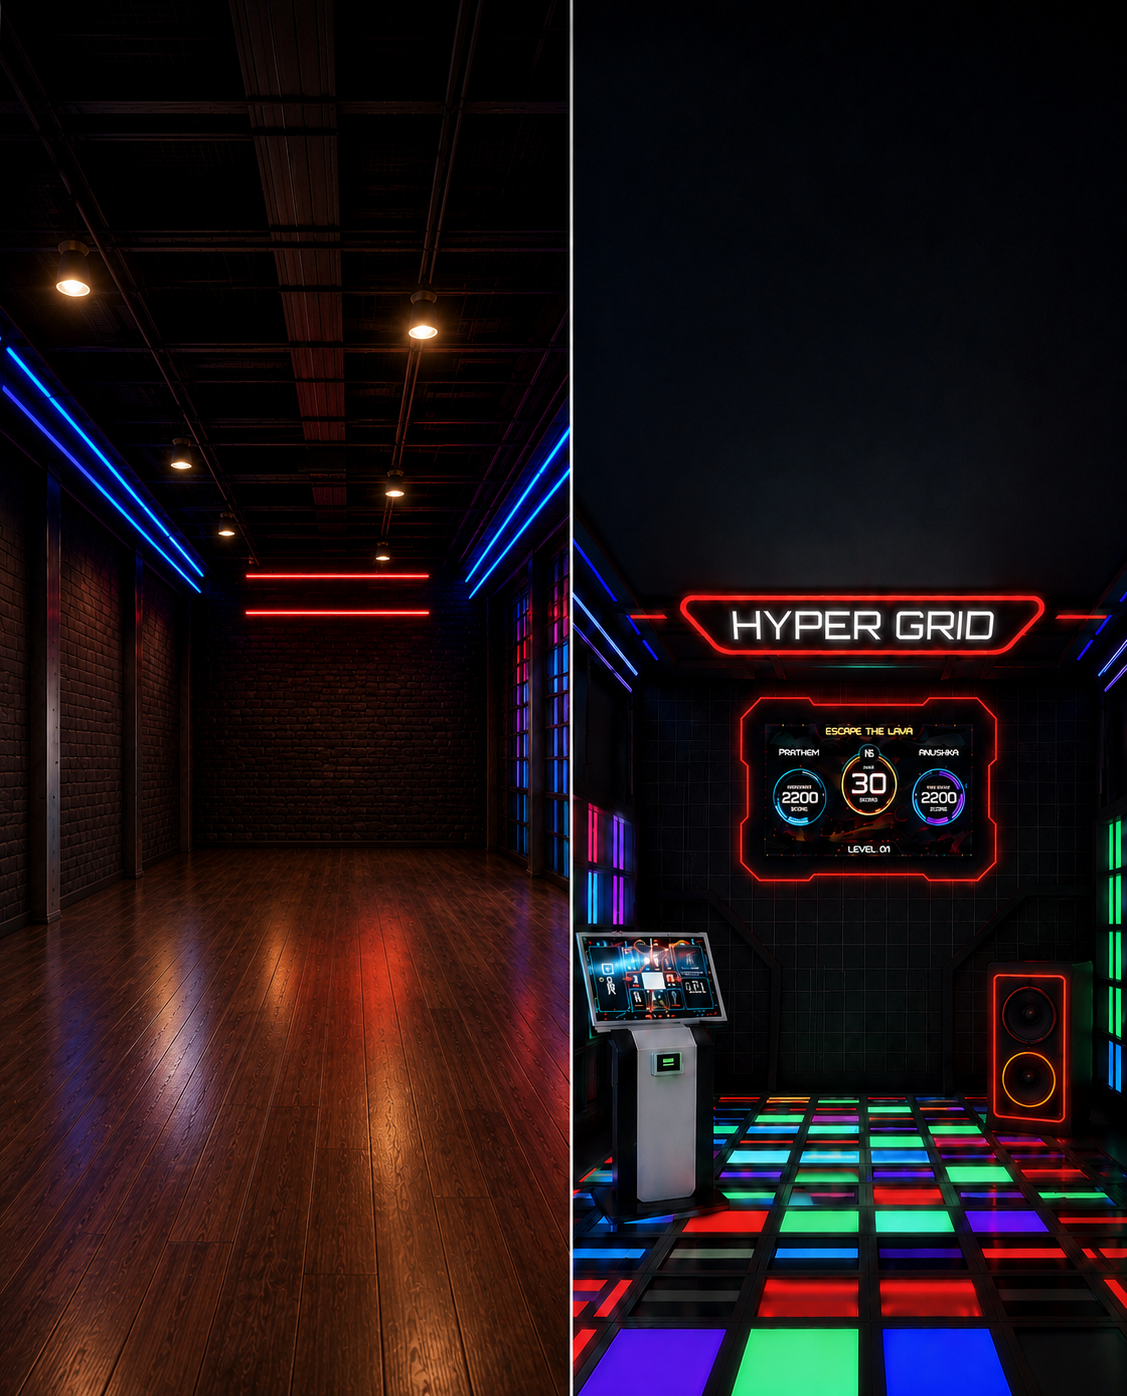
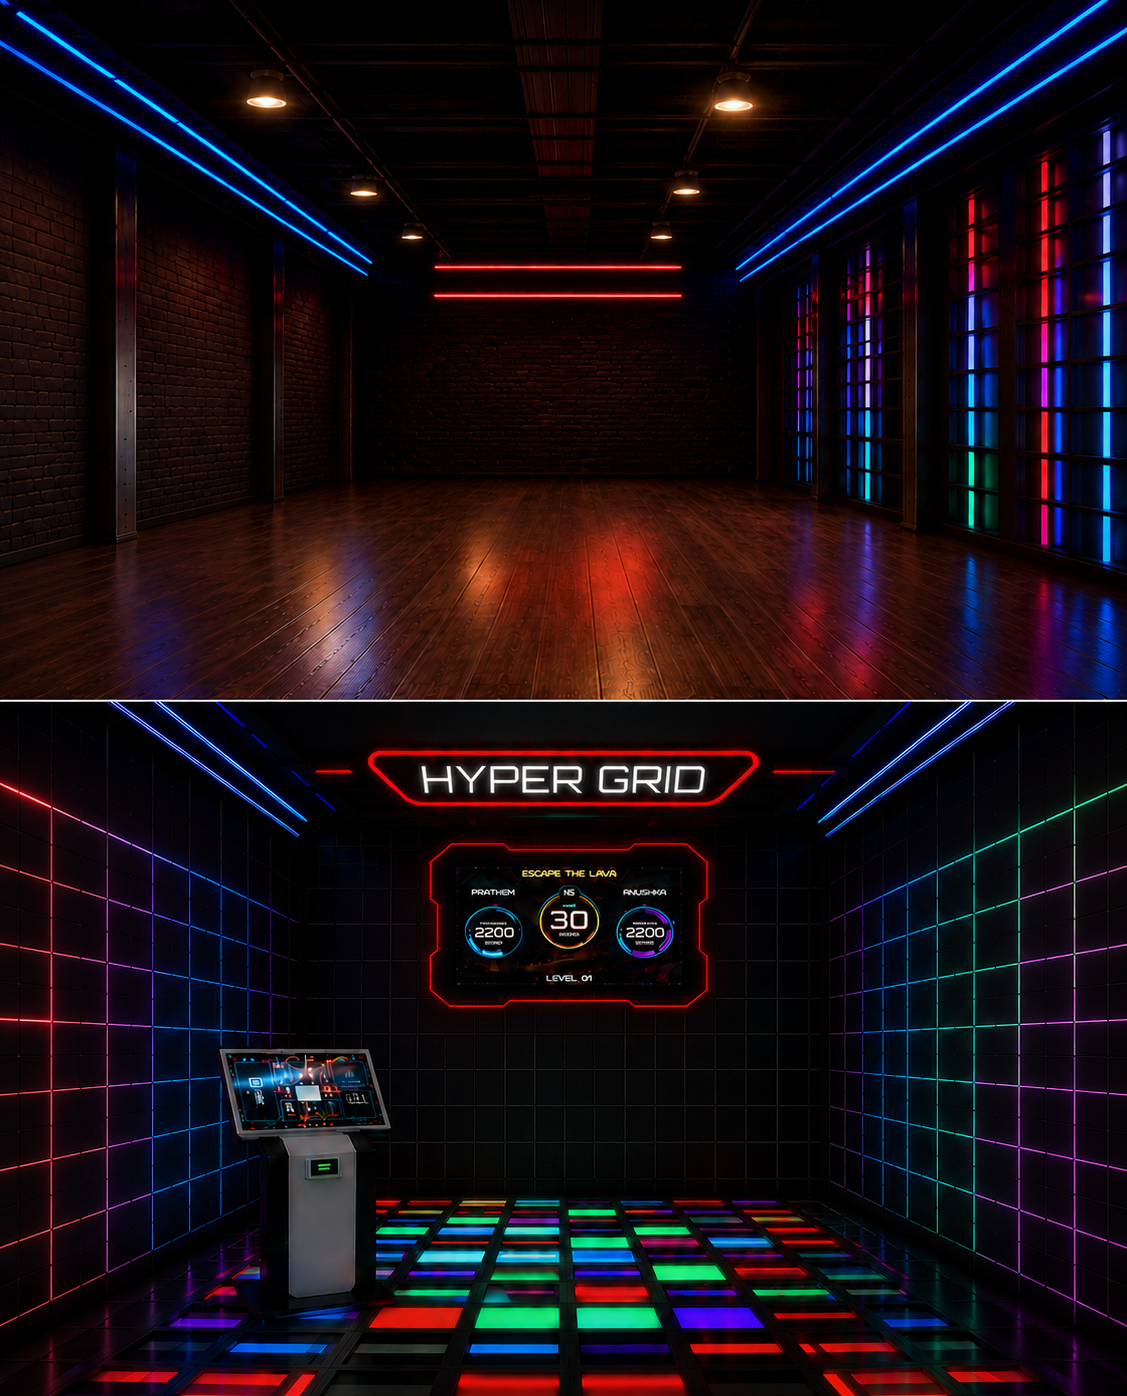
style: added actual case study data

diff --git a/src/components/CaseStudy.tsx b/src/components/CaseStudy.tsx
@@ -99,19 +99,16 @@ const CHAINS_DATA: ChainData[] = [
     shortName: "UK",
     subtitle: "Consistently outperforming expectations.",
     pricePerPlayUsd: 6,
-    revenuePerMonthUsd: 28500,
+    revenuePerMonthUsd: 14100,
     paybackMonths: 4,
-    avgPlays: 1250,
-    avgRevenueUsd: 6500,
+    avgPlays: 542,
+    avgRevenueUsd: 3252,
     roiSummary: "2.5x",
     weeksData: [
-      { label: "Week 1", revUsd: 5200, plays: 866 },
-      { label: "Week 2", revUsd: 6800, plays: 1133 },
-      { label: "Week 3", revUsd: 6300, plays: 1050 },
-      { label: "Week 4", revUsd: 8100, plays: 1350 },
-      { label: "Week 5", revUsd: 4900, plays: 816 },
-      { label: "Week 6", revUsd: 6000, plays: 1000 },
-      { label: "Week 7", revUsd: 6200, plays: 1033 },
+      { label: "Week 1", revUsd: 3528, plays: 588 },
+      { label: "Week 2", revUsd: 3474, plays: 579 },
+      { label: "Week 3", revUsd: 2838, plays: 473 },
+      { label: "Week 4", revUsd: 3168, plays: 528 },
     ],
   },
   {
@@ -119,20 +116,20 @@ const CHAINS_DATA: ChainData[] = [
     name: "New york FEC Chain",
     shortName: "New york",
     subtitle: "High density traffic, record payback.",
-    pricePerPlayUsd: 7,
-    revenuePerMonthUsd: 32000,
+    pricePerPlayUsd: 5,
+    revenuePerMonthUsd: 28500,
     paybackMonths: 2,
     avgPlays: 1420,
-    avgRevenueUsd: 7650,
+    avgRevenueUsd: 7000,
     roiSummary: "4x",
     weeksData: [
-      { label: "Week 1", revUsd: 6100, plays: 871 },
-      { label: "Week 2", revUsd: 7500, plays: 1071 },
-      { label: "Week 3", revUsd: 7200, plays: 1028 },
-      { label: "Week 4", revUsd: 9500, plays: 1357 },
-      { label: "Week 5", revUsd: 5800, plays: 828 },
-      { label: "Week 6", revUsd: 7100, plays: 1014 },
-      { label: "Week 7", revUsd: 7400, plays: 1057 },
+      { label: "Week 1", revUsd: 2830, plays: 566 },
+      { label: "Week 2", revUsd: 6875, plays: 1375 },
+      { label: "Week 3", revUsd: 8765, plays: 1753 },
+      { label: "Week 4", revUsd: 5750, plays: 1150 },
+      { label: "Week 5", revUsd: 6575, plays: 1315 },
+      { label: "Week 6", revUsd: 7245, plays: 1449 },
+      { label: "Week 7", revUsd: 8005, plays: 1601 },
     ],
   },
 ];
@@ -160,11 +157,19 @@ export default function CaseStudy() {
 
   const formatWeekRev = (usd: number): string => {
     const v = Math.round(usd * rate);
+    if (v >= 1_000_000) {
+      const millions = Number((v / 1_000_000).toFixed(1));
+      return `${symbol}${millions}M`;
+    }
     return `${symbol}${v.toLocaleString()}`;
   };
 
   const formatAvgRev = (usd: number): string => {
     const v = Math.round(usd * rate);
+    if (v >= 1_000_000) {
+      const millions = Number((v / 1_000_000).toFixed(1));
+      return `${symbol}${millions}M`;
+    }
     return `${symbol}${v.toLocaleString()}`;
   };
 

diff --git a/src/lib/useCurrency.ts b/src/lib/useCurrency.ts
@@ -98,7 +98,8 @@ export function setGlobalLocation(info: Partial<CurrencyInfo>) {
     const code = info.countryCode.toUpperCase();
     const currencyCode = COUNTRY_TO_CURRENCY[code] || "USD";
     const cur = CURRENCIES[currencyCode] || { symbol: "$", rate: 1 };
-    const name = en[code as keyof typeof en] || info.countryName || "United States";
+    let name = en[code as keyof typeof en] || info.countryName || "United States";
+    if (name === "United Arab Emirates") name = "UAE";
     
     updated = {
       symbol: cur.symbol,
@@ -111,7 +112,8 @@ export function setGlobalLocation(info: Partial<CurrencyInfo>) {
     const currencyCode = info.code.toUpperCase();
     const countryCode = CURRENCY_TO_COUNTRY[currencyCode] || "US";
     const cur = CURRENCIES[currencyCode] || { symbol: "$", rate: 1 };
-    const name = en[countryCode as keyof typeof en] || "United States";
+    let name = en[countryCode as keyof typeof en] || "United States";
+    if (name === "United Arab Emirates") name = "UAE";
     
     updated = {
       symbol: cur.symbol,
@@ -121,10 +123,10 @@ export function setGlobalLocation(info: Partial<CurrencyInfo>) {
       countryCode: countryCode,
     };
   } else if (info.countryName) {
-    const name = info.countryName.trim();
-    // find key in en
+    let name = info.countryName.trim();
+    if (name === "United Arab Emirates") name = "UAE";
     const normalizedName = name.toLowerCase();
-    const foundCode = Object.entries(en).find(([_, val]) => val.toLowerCase() === normalizedName)?.[0];
+    const foundCode = Object.entries(en).find(([_, val]) => val.toLowerCase() === normalizedName || (val === "United Arab Emirates" && normalizedName === "uae"))?.[0];
     if (foundCode) {
       const currencyCode = COUNTRY_TO_CURRENCY[foundCode] || "USD";
       const cur = CURRENCIES[currencyCode] || { symbol: "$", rate: 1 };

diff --git a/src/components/BrochureForm.tsx b/src/components/BrochureForm.tsx
@@ -31,13 +31,12 @@ interface FieldError {
   venueLocation?: string;
 }
 
-const COUNTRIES = Object.values(en).sort();
+const COUNTRIES = Object.values(en).map(c => c === "United Arab Emirates" ? "UAE" : c).sort();
 
 const COUNTRY_PHONE_SPECS: Record<string, { code: string; length: number | number[] }> = {
   "United States": { code: "+1", length: 10 },
   "Canada": { code: "+1", length: 10 },
   "India": { code: "+91", length: 10 },
-  "United Arab Emirates": { code: "+971", length: 9 },
   "UAE": { code: "+971", length: 9 },
   "United Kingdom": { code: "+44", length: [10, 11] },
   "Australia": { code: "+61", length: 9 },
@@ -83,7 +82,7 @@ export default function BrochureForm() {
 
   useEffect(() => {
     if (countryName) {
-      const displayCountry = countryName === "United Arab Emirates" ? "UAE" : countryName;
+      const displayCountry = (countryName === "United Arab Emirates" || countryName === "UAE") ? "UAE" : countryName;
       setForm((prev) => ({
         ...prev,
         country: displayCountry,

diff --git a/src/components/CardCarousel.tsx b/src/components/CardCarousel.tsx
@@ -33,7 +33,11 @@ function CardContent({ card }: { card: CarouselCard }) {
           {/* Re-apply the card gradient as a tint so colours stay on-brand */}
           <div
             className="absolute inset-0"
-            style={{ background: card.gradient, mixBlendMode: "multiply", opacity: 0.20 }}
+            style={{
+              background: card.gradient,
+              mixBlendMode: "multiply",
+              opacity: (card.label.toLowerCase() === "unattended" || card.label.toLowerCase() === "turnkey") ? 0.10 : 0.20
+            }}
           />
         </>
       )}
